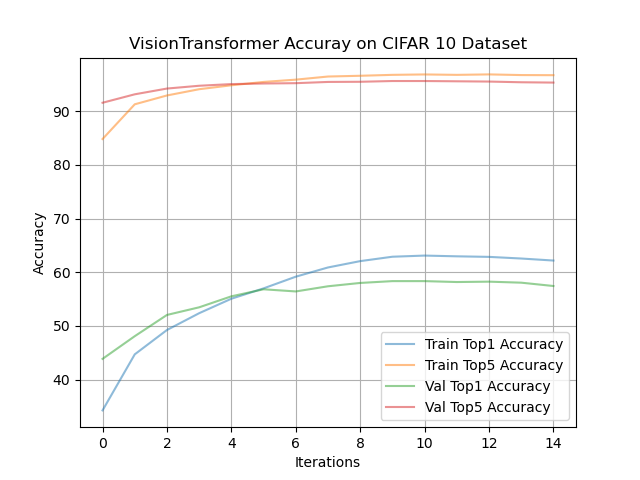
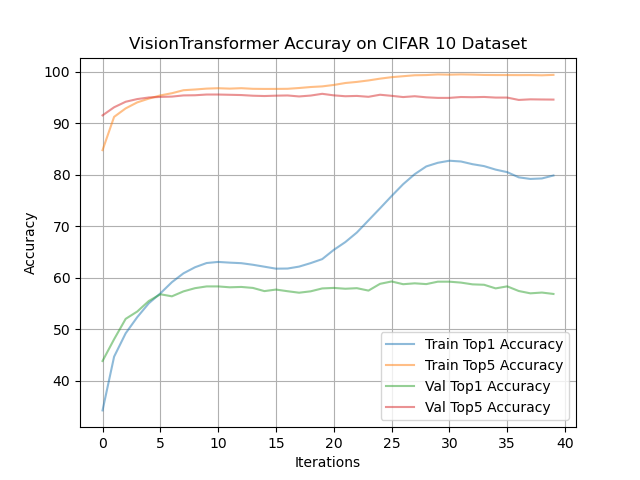
Add files via upload

diff --git a/main.py b/main.py
@@ -188,8 +188,12 @@ def main(config):
         criterion = nn.CrossEntropyLoss()
 
         # Optimizers #
-        optimizer = torch.optim.Adam(model.parameters(), lr=config.lr, betas=(0.5, 0.999))
-        optimizer_scheduler = get_lr_scheduler(config.lr_scheduler, optimizer)
+        if config.num_classes == 10:
+            optimizer = torch.optim.Adam(model.parameters(), lr=config.lr, betas=(0.5, 0.999))
+            optimizer_scheduler = get_lr_scheduler(config.lr_scheduler, optimizer)
+        elif config.num_classes == 100:
+            optimizer = torch.optim.SGD(model.parameters(), lr=config.lr, momentum=0.9, weight_decay=5e-4)
+            optimizer_scheduler = get_lr_scheduler('step', optimizer)
 
         # Constants #
         best_top1_acc = 0
@@ -257,7 +261,6 @@ if __name__ == "__main__":
     parser.add_argument('--dataset', type=str, default='cifar', help='which dataset to train')
     parser.add_argument('--num_classes', type=int, default=10, help='num_classes for cifar dataset', choices=[10, 100])
     parser.add_argument('--batch_size', type=int, default=64, help='mini-batch size')
-    parser.add_argument('--val_batch_size', type=int, default=32, help='mini-batch size for validation')
 
     parser.add_argument('--model', type=str, default='vit', help='which model to train for benchmarking', choices=['vit', 'efficient', 'resnet'])
     parser.add_argument('--init', type=str, default='he', help='which initialization technique to apply', choices=['normal', 'xavier', 'he'])
@@ -275,7 +278,6 @@ if __name__ == "__main__":
 
     parser.add_argument('--num_epochs', type=int, default=40, help='total epoch')
     parser.add_argument('--print_every', type=int, default=100, help='print statistics for every n iteration')
-    parser.add_argument('--save_every', type=int, default=5, help='save model weights for every n epoch')
 
     parser.add_argument('--phase', type=str, default='train', choices=['train', 'test'])
 
